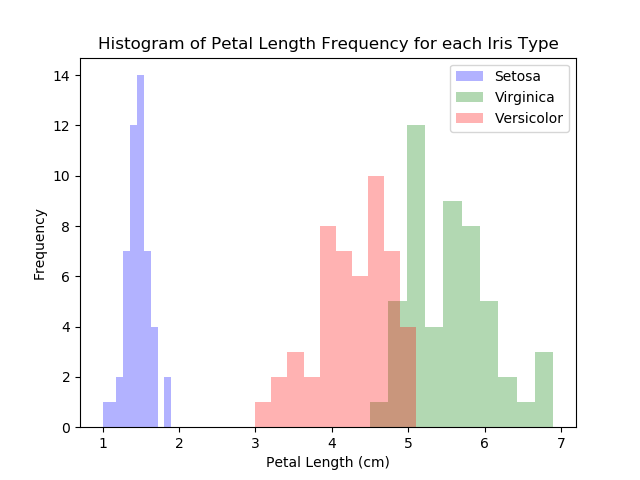
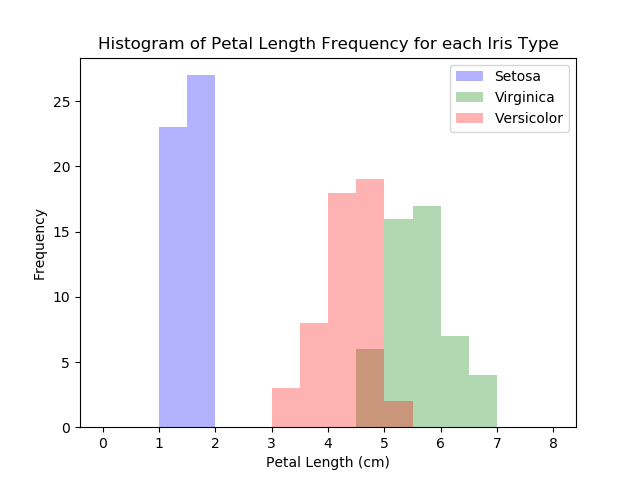
importing numpy so that I can use arange to create better bin ranges for plots

diff --git a/irisAnalysis.py b/irisAnalysis.py
@@ -27,6 +27,7 @@
 import pandas as pd
 from matplotlib import pyplot as plt
 import seaborn as sns
+import numpy as np
 
 # Setting csv to be a global variable, will mean program can be adapted to other files.
 csv = 'iris_csv.csv'
@@ -113,10 +114,13 @@ iris_virginica=df.loc["Iris-virginica"]
 iris_versicolor=df.loc["Iris-versicolor"]
 
 for measurement in df.columns:
+    low = df[measurement].min()
+    upper = df[measurement].max
+    binsizes = [0, 0.5, 1, 1.5, 2, 2.5, 3, 3.5, 4, 4.5, 5, 5.5, 6, 6.5, 7, 7.5, 8]
     fig, ax = plt.subplots()
-    ax.hist(iris_setosa[measurement], color='b', label='Setosa', alpha =0.3)
-    ax.hist(iris_virginica[measurement], color='g', label = 'Virginica', alpha = 0.3)
-    ax.hist(iris_versicolor[measurement], color='r', label = 'Versicolor', alpha = 0.3)
+    ax.hist(iris_setosa[measurement], color='b', label='Setosa', alpha =0.3, bins=binsizes)
+    ax.hist(iris_virginica[measurement], color='g', label = 'Virginica', alpha = 0.3, bins = binsizes)
+    ax.hist(iris_versicolor[measurement], color='r', label = 'Versicolor', alpha = 0.3, bins = binsizes)
     name = nameFormat(measurement)
     ax.set_xlabel(name + ' (cm)')
     ax.set_ylabel ("Frequency")
